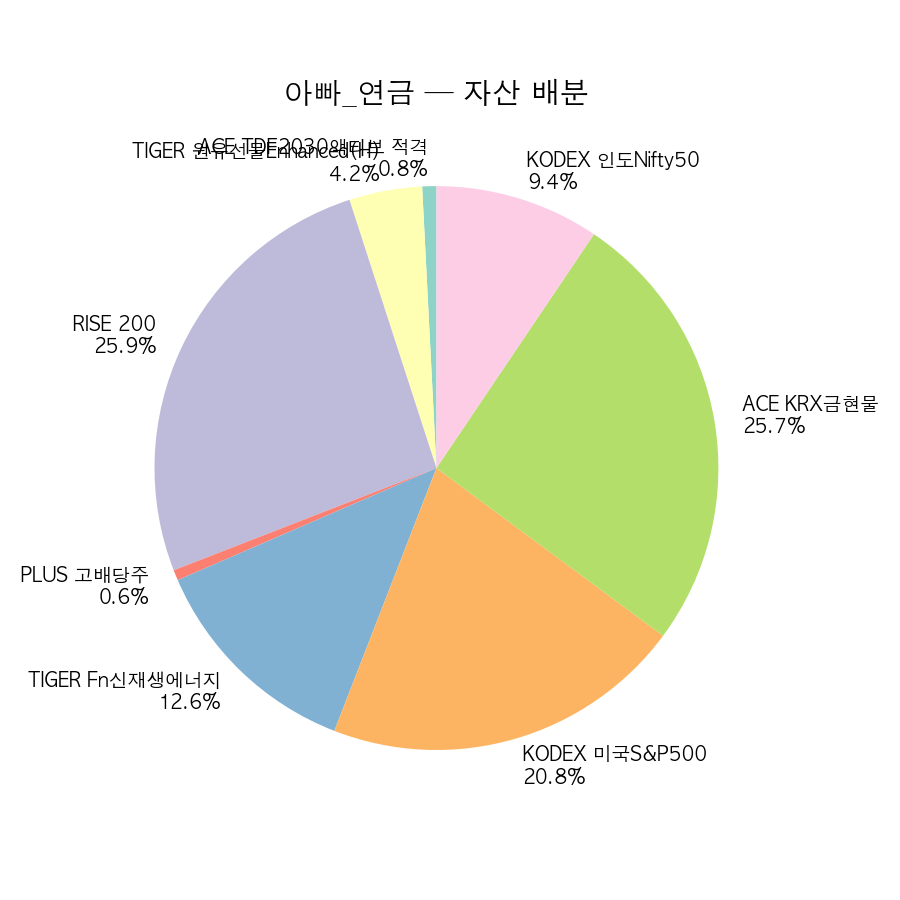
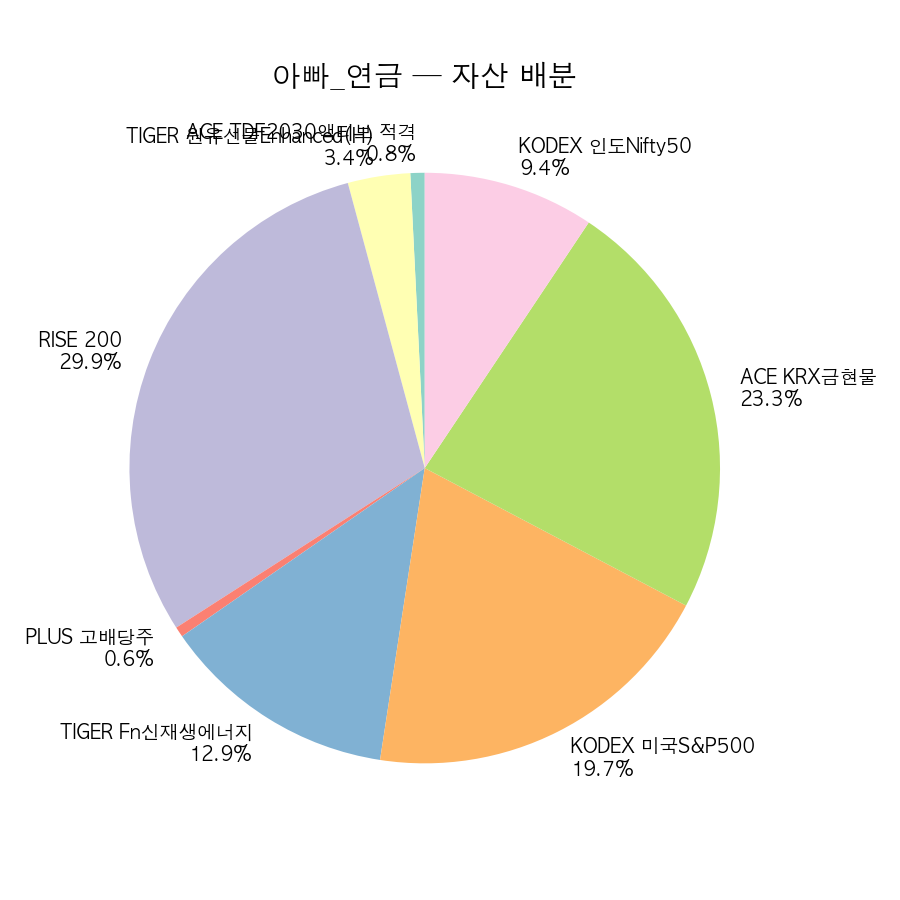
섹션별 주간 리포트 (자동 생성)

diff --git a/_posts/2026-06-26-etf-weekly-week12.md b/_posts/2026-06-26-etf-weekly-week12.md
@@ -1,0 +1,56 @@
+---
+layout: post
+title: "Week 12 — 부모님 연금 ETF 주간 리포트"
+date: 2026-06-26
+categories: [investing, etf]
+tags: [weekly]
+---
+
+> 부모님 연금저축 ETF 실험 — 12주차 기록.
+
+---
+
+## 12주차 성과
+
+### 엄마_연금
+
+| 종목 | 수량 | 평단가 | 종가 | 평가액 | 수익률 |
+|------|------|--------|------|--------|--------|
+| RISE 200 | 9주 | ₩80,163 | ₩148,160 | ₩1,333,440 | +84.8% |
+| ACE KRX금현물 | 37주 | ₩31,329 | ₩28,160 | ₩1,041,920 | -10.1% |
+| KODEX 미국S&P500 | 34주 | ₩22,947 | ₩25,880 | ₩879,920 | +12.8% |
+| TIGER Fn신재생에너지 | 19주 | ₩27,630 | ₩30,390 | ₩577,410 | +10.0% |
+| KODEX 인도Nifty50 | 32주 | ₩12,525 | ₩13,075 | ₩418,400 | +4.4% |
+| TIGER 원유선물Enhanced(H) | 24주 | ₩6,925 | ₩6,355 | ₩152,520 | -8.2% |
+
+**투자 ₩3,752,812 → 평가 ₩4,403,610 | +650,798원 (+17.3%)**
+
+예수금: ₩2,858,928
+---
+
+### 아빠_연금
+
+| 종목 | 수량 | 평단가 | 종가 | 평가액 | 수익률 |
+|------|------|--------|------|--------|--------|
+| RISE 200 | 9주 | ₩80,165 | ₩148,260 | ₩1,334,340 | +84.9% |
+| ACE KRX금현물 | 37주 | ₩31,331 | ₩28,160 | ₩1,041,920 | -10.1% |
+| KODEX 미국S&P500 | 34주 | ₩22,945 | ₩25,880 | ₩879,920 | +12.8% |
+| TIGER Fn신재생에너지 | 19주 | ₩27,634 | ₩30,390 | ₩577,410 | +10.0% |
+| KODEX 인도Nifty50 | 32주 | ₩12,535 | ₩13,075 | ₩418,400 | +4.3% |
+| TIGER 원유선물Enhanced(H) | 24주 | ₩6,912 | ₩6,355 | ₩152,520 | -8.1% |
+| ACE TDF2030액티브 적격 | 3주 | ₩11,115 | ₩11,605 | ₩34,815 | +4.4% |
+| PLUS 고배당주 | 1주 | ₩25,370 | ₩25,175 | ₩25,175 | -0.8% |
+
+**투자 ₩3,811,597 → 평가 ₩4,464,500 | +652,903원 (+17.1%)**
+
+예수금: ₩2,209,604
+
+
+## 6월 월간 정리
+
+- **엄마_연금**: 월초 +22.1% → 월말 +17.3% (-4.7%p)
+- **아빠_연금**: 월초 +21.8% → 월말 +17.1% (-4.6%p)
+
+---
+
+*데이터: 한국투자증권 KIS Open API / 2026-06-26 장 마감 기준*

diff --git a/_posts/2026-06-26-dividend-weekly-week12.md b/_posts/2026-06-26-dividend-weekly-week12.md
@@ -1,0 +1,37 @@
+---
+layout: post
+title: "Week 12 — ISA 배당 포트 주간 리포트"
+date: 2026-06-26
+categories: [investing, dividend]
+tags: [weekly]
+---
+
+> ISA 배당 포트폴리오 — 12주차 기록.
+
+---
+
+## 12주차 성과
+
+### 한투_ISA
+
+| 종목 | 수량 | 평단가 | 종가 | 평가액 | 수익률 |
+|------|------|--------|------|--------|--------|
+| 삼성화재우 | 5주 | ₩374,400 | ₩417,500 | ₩2,087,500 | +11.5% |
+| KODEX 고배당주 | 93주 | ₩18,057 | ₩18,760 | ₩1,744,680 | +3.9% |
+| KT&G | 9주 | ₩167,378 | ₩188,100 | ₩1,692,900 | +12.4% |
+| 고려신용정보 | 164주 | ₩10,263 | ₩9,910 | ₩1,625,240 | -3.4% |
+| 빙그레 | 22주 | ₩74,339 | ₩69,700 | ₩1,533,400 | -6.2% |
+| KODEX 반도체 | 1주 | ₩151,495 | ₩174,610 | ₩174,610 | +15.2% |
+
+**투자 ₩8,527,835 → 평가 ₩8,858,330 | +330,495원 (+3.9%)**
+
+예수금: ₩57,658
+
+
+## 6월 월간 정리
+
+- **한투_ISA**: 월초 +0.7% → 월말 +3.9% (+3.2%p)
+
+---
+
+*데이터: 한국투자증권 KIS Open API / 2026-06-26 장 마감 기준*
